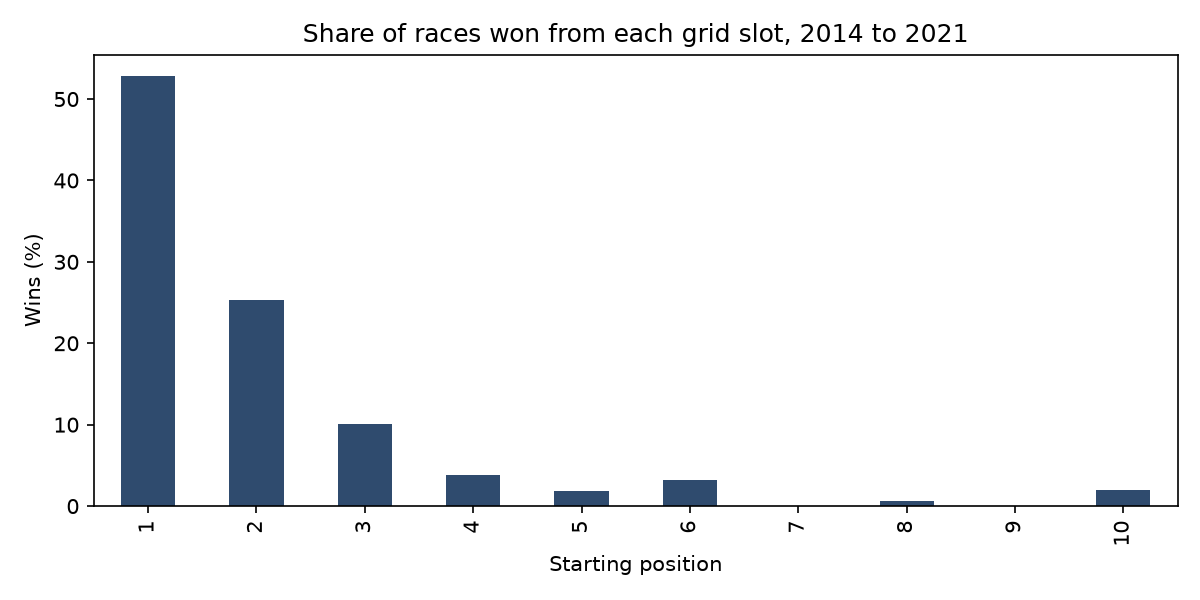
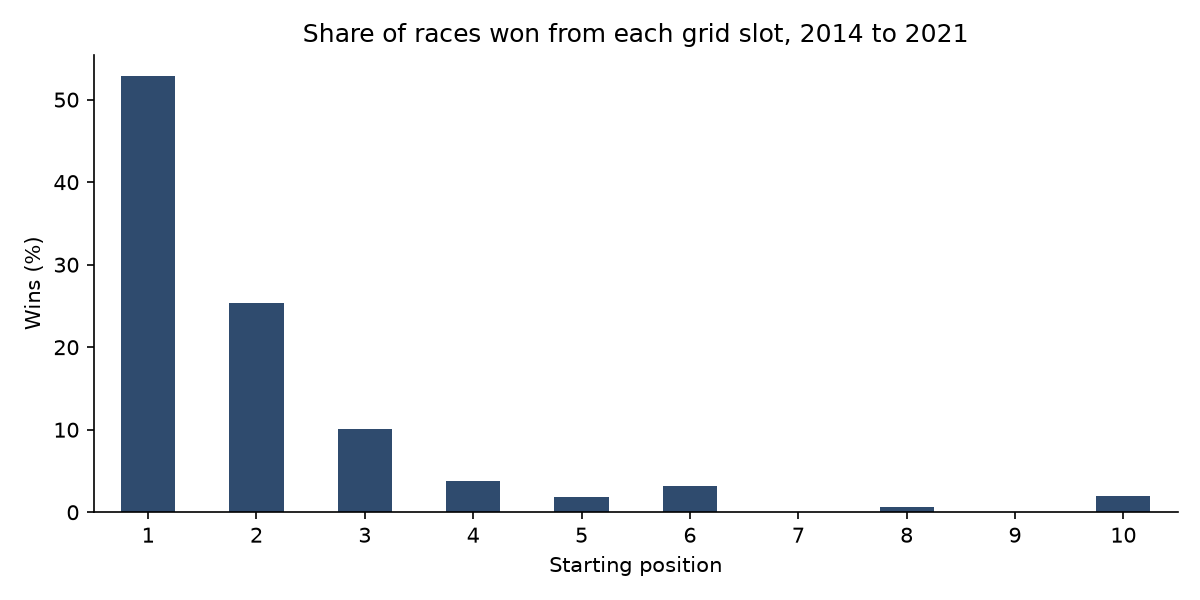
Add demo screenshots to the Job Search Agent case

diff --git a/content/projects.js b/content/projects.js
@@ -594,7 +594,13 @@ const projects = [
       'Applying well takes hours per offer: finding it, judging the fit, writing the letter, filling the form, remembering to follow up. I built a local tool that does the repetitive parts and leaves every decision and every send to me.',
     stack: ['Python', 'Flask', 'Playwright', 'Gemini API', 'Claude API', 'JavaScript'],
     links: { demo: '', code: '' },
-    cover: null,
+    cover: {
+      src: '/images/job-agent-offers.jpg',
+      width: 1600,
+      height: 1000,
+      alt: 'The offers page of the dashboard: a search bar, filters by status, score and date on the left, and offer cards with a match score, contract, work mode, salary and Details and Apply buttons.',
+      caption: 'The offers page, on demo data: every company and offer here is fictional. The interface is in French.',
+    },
     impact: [],
     sections: [
       {
@@ -629,11 +635,31 @@ const projects = [
         ],
       },
       {
+        type: 'figure',
+        figure: {
+          src: '/images/job-agent-offer.jpg',
+          width: 1600,
+          height: 1000,
+          alt: 'An offer opened in a side panel: score 88, salary, contract, work mode, required experience, right to work, a short summary, strengths for the role and points of attention.',
+          caption: 'An offer opened from the list: the score, the facts that decide whether to apply, and what the LLM found for and against the fit. Demo data.',
+        },
+      },
+      {
         heading: 'Dashboard',
         type: 'prose',
         body: [
           'A local web dashboard (Flask API and a single-file interface) answers one question each morning: what do I apply to today? It has a home briefing, the offers with filters, the applications with their follow-ups, a results page (reply rate, interviews, refusals by step) and the page of saved answers.',
         ],
+      },
+      {
+        type: 'figure',
+        figure: {
+          src: '/images/job-agent-today.jpg',
+          width: 1600,
+          height: 1000,
+          alt: 'The home page: a headline saying follow-ups are waiting, a button to prepare the follow-up, a to-do list with form questions to answer and two applications to follow up, then the best offers to review.',
+          caption: 'The home page: what to do today, follow-ups first. Demo data.',
+        },
       },
       {
         heading: 'What it does not do',
